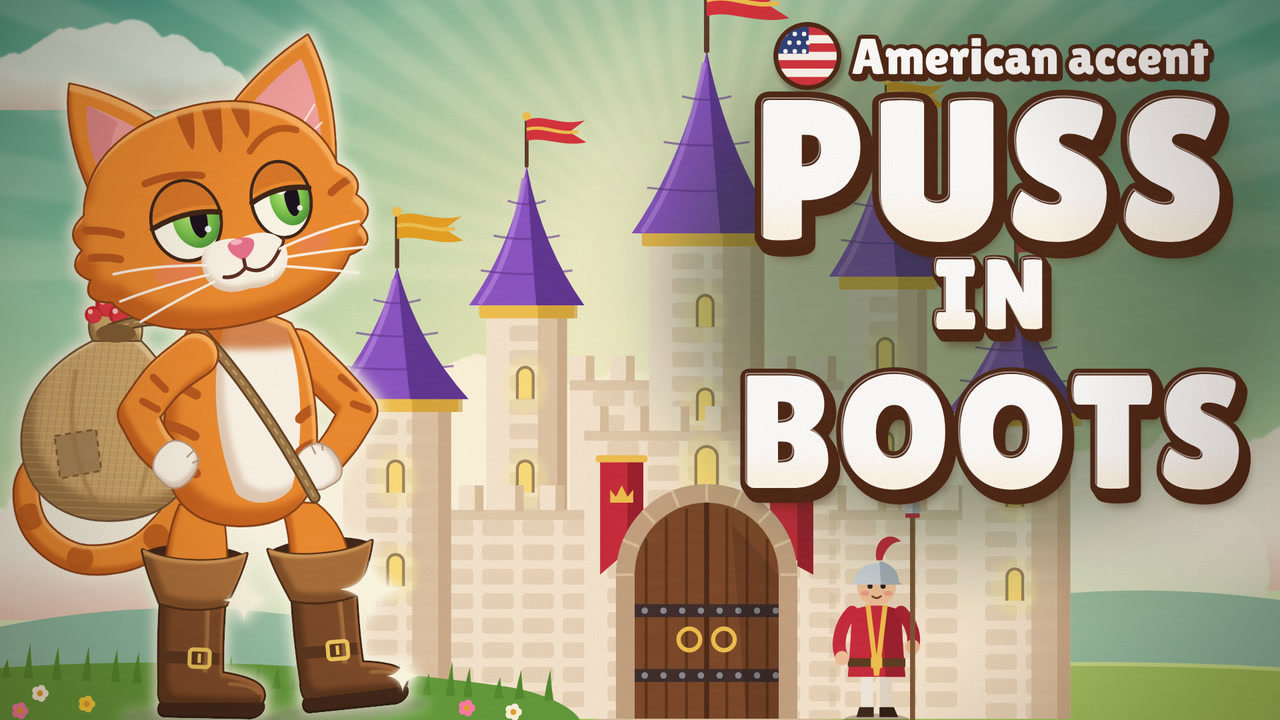
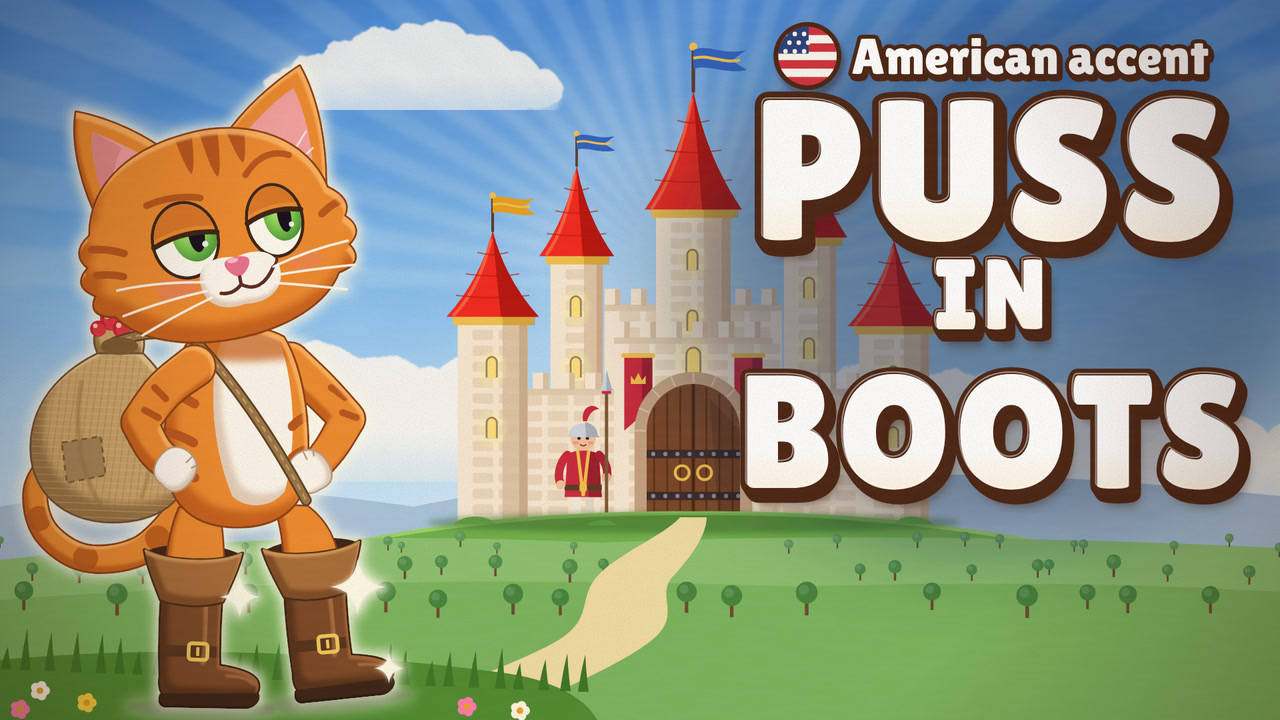
Thumbnail: blue sky, the castle far across the valley on its own hill (crisp, bright red roofs), Puss in the foreground looking at it
Claude-Session: https://claude.ai/code/session_018MiCdL3RZvqxZBKivPbUKZ

diff --git a/film/thumb/thumb.js b/film/thumb/thumb.js
@@ -125,7 +125,7 @@ function boot(x, y, rot, layer) {   // a cavalier boot: flared cuff, shaft, roun
 function faceArt() {
   const eye = (cx, cy, rx, ry, lid) => {
     const c = uid('e'); DEFS.push(`<clipPath id="${c}"><ellipse cx="${cx}" cy="${cy}" rx="${rx}" ry="${ry}"/></clipPath>`);
-    const ix = cx + rx * .34, iy = cy - ry * .02, ly = cy - ry + ry * 2 * lid;
+    const ix = cx + rx * .34, iy = cy - ry * .14, ly = cy - ry + ry * 2 * lid;
     return `<ellipse cx="${cx}" cy="${cy}" rx="${rx + 5}" ry="${ry + 5}" fill="${INK}"/>
       <g clip-path="url(#${c})"><rect x="${cx - rx}" y="${cy - ry}" width="${rx * 2}" height="${ry * 2}" fill="#fffbee"/>
       <ellipse cx="${ix}" cy="${iy}" rx="${rx * .74}" ry="${ry * .78}" fill="url(#iris)"/>
@@ -157,9 +157,9 @@ function cloud(cx, cy, w, h, seed, { top = '#fffaf1', bot = '#f1c9bb', op = 1 } 
   return `<g opacity="${op}" clip-path="url(#${cl})"><g fill="${bot}" transform="translate(0 10)" filter="url(#b6)" opacity=".6">${c}</g><g fill="url(#${id})" filter="url(#cloudEdge)">${c}</g></g>`;
 }
 function castle(x, y, k) {   // a grand fairy-tale castle: towers with pointed roofs and flags, banners, a big studded door, a guard
-  const W = '#f8e8d2', WS = '#dcc0a0', WD = '#c4a282', RF = '#8a52c6', RFS = '#5e3394', RFL = '#b07ee0', GOLD = '#f2c14e';
+  const W = '#f8e8d2', WS = '#dcc0a0', WD = '#c4a282', RF = '#f2281e', RFS = '#b8140e', RFL = '#ff6a4a', GOLD = '#f2c14e';
   const bricks = (x0, x1, y0, y1) => { let b = ''; for (let yy = y0 + 14; yy < y1 - 10; yy += 34) { const off = ((yy - y0) / 34) % 2 ? 28 : 0; for (let xx = x0 + off; xx < x1 - 30; xx += 56) b += `<rect x="${n1(xx + 4)}" y="${n1(yy)}" width="44" height="22" rx="5" fill="${WS}" opacity=".45"/>`; } return b; };
-  const flag = (px, py, sc = 1, c = '#d8303c') => `<path d="M${px} ${py} L${px} ${py - 74 * sc}" stroke="#5a3a2a" stroke-width="${6 * sc}" stroke-linecap="round"/><circle cx="${px}" cy="${py - 76 * sc}" r="${7 * sc}" fill="${GOLD}"/>` +
+  const flag = (px, py, sc = 1, c = '#2f62c0') => `<path d="M${px} ${py} L${px} ${py - 74 * sc}" stroke="#5a3a2a" stroke-width="${6 * sc}" stroke-linecap="round"/><circle cx="${px}" cy="${py - 76 * sc}" r="${7 * sc}" fill="${GOLD}"/>` +
     `<path d="M${px} ${py - 70 * sc} C${px + 24 * sc} ${py - 82 * sc} ${px + 50 * sc} ${py - 60 * sc} ${px + 90 * sc} ${py - 70 * sc} L${px + 66 * sc} ${py - 52 * sc} L${px + 92 * sc} ${py - 36 * sc} C${px + 54 * sc} ${py - 28 * sc} ${px + 26 * sc} ${py - 46 * sc} ${px} ${py - 38 * sc} Z" fill="${c}"/>` +
     `<path d="M${px} ${py - 56 * sc} C${px + 26 * sc} ${py - 64 * sc} ${px + 50 * sc} ${py - 46 * sc} ${px + 80 * sc} ${py - 53 * sc}" stroke="${GOLD}" stroke-width="${5 * sc}" fill="none"/>`;
   const win = (wx, wy, w = 26, h = 46) => `<path d="M${wx - w / 2} ${wy + h} L${wx - w / 2} ${wy + w / 2} A${w / 2} ${w / 2} 0 0 1 ${wx + w / 2} ${wy + w / 2} L${wx + w / 2} ${wy + h} Z" fill="#6a4a3a"/><path d="M${wx - w / 2 + 4} ${wy + h} L${wx - w / 2 + 4} ${wy + w / 2} A${w / 2 - 4} ${w / 2 - 4} 0 0 1 ${wx + w / 2 - 4} ${wy + w / 2} L${wx + w / 2 - 4} ${wy + h} Z" fill="#ffd86a"/><ellipse cx="${wx}" cy="${wy + h * .6}" rx="${w * 1.2}" ry="${h * .9}" fill="#fff0a0" opacity=".35" filter="url(#b8)"/>`;
@@ -200,7 +200,7 @@ function castle(x, y, k) {   // a grand fairy-tale castle: towers with pointed r
     <circle cx="0" cy="-184" r="27" fill="#f2c19a"/><circle cx="-9" cy="-184" r="3.6" fill="#2a1a20"/><circle cx="9" cy="-184" r="3.6" fill="#2a1a20"/><ellipse cx="-16" cy="-174" rx="6" ry="3.5" fill="#f08c80" opacity=".7"/><ellipse cx="16" cy="-174" rx="6" ry="3.5" fill="#f08c80" opacity=".7"/><path d="M-6 -170 Q0 -165 6 -170" stroke="#7a3a2a" stroke-width="2.6" fill="none" stroke-linecap="round"/>
     <path d="M-31 -190 C-31 -224 31 -224 31 -190 L36 -186 L-36 -186 Z" fill="#cfd6de"/><path d="M4 -219 C22 -214 31 -204 31 -190 L36 -186 L6 -186 Z" fill="#a8b0ba"/><path d="M0 -220 C-6 -250 20 -262 34 -246 C22 -246 12 -236 8 -220 Z" fill="#c8283a"/>
   </g>`;
-  return `<g transform="translate(${x} ${y}) scale(${k})"><ellipse cx="0" cy="-460" rx="900" ry="700" fill="url(#cglow)"/>
+  return `<g><g transform="translate(${x} ${y}) scale(${k})">
     ${tower(-250, 112, 560, 190, { fs: .9 })}${tower(250, 112, 600, 200, { fs: .9, fc: '#e8a020' })}
     ${crenWall(-190, 190, 470)}${tower(0, 160, 660, 250, { fs: 1.25, wins: 3 })}
     ${crenWall(-400, 400, 290)}
@@ -208,7 +208,7 @@ function castle(x, y, k) {   // a grand fairy-tale castle: towers with pointed r
     ${crenWall(-170, 170, 400)}${banner(-118)}${banner(118)}${win(0, -380, 34, 56)}
     ${door}
     <path d="M-150 0 L150 0 L176 22 L-176 22 Z" fill="${WS}"/><path d="M-176 22 L176 22 L196 40 L-196 40 Z" fill="${WD}"/>
-    ${guard(236)}</g>`;
+    ${guard(-236)}</g></g>`;
 }
 DEFS.push(`<radialGradient id="cglow"><stop offset="0" stop-color="#fff6d0" stop-opacity=".75"/><stop offset=".6" stop-color="#fff0c0" stop-opacity=".25"/><stop offset="1" stop-color="#fff0c0" stop-opacity="0"/></radialGradient>`);
 function rays(cx, cy, n, a) {   // soft sunbeams fanning out from behind the castle
@@ -217,22 +217,31 @@ function rays(cx, cy, n, a) {   // soft sunbeams fanning out from behind the cas
 }
 function scene() {
   const o = [];
-  // sky: a rich sunset (rose-orange at the top to gold), a bright glow behind the castle
-  DEFS.push(`<linearGradient id="sky" x1="0" y1="0" x2="0" y2="1080" gradientUnits="userSpaceOnUse"><stop offset="0" stop-color="#3f9a86"/><stop offset=".35" stop-color="#7cc4a0"/><stop offset=".7" stop-color="#c8e8b4"/><stop offset="1" stop-color="#eef6cc"/></linearGradient>`);
-  DEFS.push(`<radialGradient id="glow" cx="1050" cy="420" r="900" gradientUnits="userSpaceOnUse"><stop offset="0" stop-color="#fffbe6" stop-opacity=".95"/><stop offset=".4" stop-color="#ffe9b8" stop-opacity=".5"/><stop offset="1" stop-color="#ffe2a6" stop-opacity="0"/></radialGradient>`);
-  o.push(`<rect width="1920" height="1080" fill="url(#sky)"/>${rays(1050, 420, 26, .16)}<rect width="1920" height="1080" fill="url(#glow)"/><rect width="1920" height="1080" filter="url(#mottle)" opacity=".45"/>`);
-  // clouds: a bright bank behind Puss (so the orange cat pops), smaller ones in the sky
-  o.push(cloud(1780, 860, 560, 170, 5, { op: .9 }), cloud(260, 900, 700, 200, 9, { op: .9 }), cloud(160, 150, 360, 100, 3, { op: .75 }));
-  o.push(cloud(1060, 900, 1500, 300, 4, { bot: '#cfe6c0' }));
-  // far lavender hills, the castle on its green hill, the road from Puss to the castle, the front hill
-  o.push(`<path d="M0 940 C200 900 420 900 600 960 C760 900 920 900 1080 930 C1260 880 1420 860 1600 890 C1740 880 1840 890 1920 900 L1920 1080 L0 1080 Z" fill="#8cbfa6"/>`);
-  o.push(`<path d="M0 1030 C300 1000 700 990 1250 1000 C1560 992 1800 996 1920 1004 L1920 1080 L0 1080 Z" fill="#9cc458"/><path d="M0 1030 C300 1000 700 990 1250 1000 C1560 992 1800 996 1920 1004" fill="none" stroke="#d6ec8e" stroke-width="6" opacity=".8"/>`);
-  o.push(castle(1060, 1078, 1.08));
-  
-  o.push(`<path d="M0 1002 C240 984 520 996 760 1030 C820 1040 860 1062 870 1080 L0 1080 Z" fill="#5f9a38"/>`);
-  let tufts = ''; const r = R0(41); for (let x = 8; x < 860; x += 26 + r() * 20) { const yb = 1006 + (x / 860) * 36, h = 18 + r() * 26; tufts += `<path d="M${n1(x - 6)} ${n1(yb + 10)} Q${n1(x - 2)} ${n1(yb - h * .5)} ${n1(x + 4)} ${n1(yb - h)} Q${n1(x + 4)} ${n1(yb - h * .4)} ${n1(x + 8)} ${n1(yb + 10)} Z"/>`; }
-  o.push(`<g fill="#4f8a2c">${tufts}</g>`);
-  let fl = ''; for (const [x, y, c] of [[60, 1040, '#fff6e0'], [130, 1056, '#ffd23a'], [700, 1062, '#ff7aa8'], [770, 1068, '#fff6e0'], [30, 1066, '#ff7aa8']]) fl += `<g fill="${c}">${[0, 1, 2, 3, 4].map(i => `<circle cx="${n1(x + Math.cos(i * 1.2566) * 7)}" cy="${n1(y + Math.sin(i * 1.2566) * 7)}" r="6"/>`).join('')}</g><circle cx="${x}" cy="${y}" r="4.5" fill="#e8a22a"/>`;
+  // sky: a clear blue, paler toward the horizon, a soft light behind the castle
+  DEFS.push(`<linearGradient id="sky" x1="0" y1="0" x2="0" y2="1080" gradientUnits="userSpaceOnUse"><stop offset="0" stop-color="#2f78d0"/><stop offset=".38" stop-color="#6fb2ec"/><stop offset=".66" stop-color="#bfe0f6"/><stop offset="1" stop-color="#eaf5f6"/></linearGradient>`);
+  DEFS.push(`<radialGradient id="glow" cx="1040" cy="430" r="820" gradientUnits="userSpaceOnUse"><stop offset="0" stop-color="#fffdf0" stop-opacity=".45"/><stop offset=".45" stop-color="#f4fbff" stop-opacity=".15"/><stop offset="1" stop-color="#f4fbff" stop-opacity="0"/></radialGradient>`);
+  o.push(`<rect width="1920" height="1080" fill="url(#sky)"/>${rays(1040, 430, 26, .12)}<rect width="1920" height="1080" fill="url(#glow)"/><rect width="1920" height="1080" filter="url(#mottle)" opacity=".35"/>`);
+  // clouds high in the sky and a soft bank along the horizon
+  o.push(cloud(620, 150, 380, 100, 3, { bot: '#d4e4f2', op: .85 }), cloud(1840, 760, 360, 100, 5, { bot: '#d4e4f2', op: .9 }), cloud(560, 700, 700, 150, 9, { bot: '#d8e8f2', op: .9 }), cloud(1500, 740, 900, 160, 4, { bot: '#d8e8f2', op: .9 }));
+  // far blue hills, the castle on its distant hill
+  o.push(`<path d="M0 760 C220 720 420 730 620 760 C820 720 980 700 1160 726 C1380 700 1600 712 1920 744 L1920 1080 L0 1080 Z" fill="#a9c4dc"/>`);
+  o.push(castle(1040, 786, .7));
+  o.push(`<path d="M420 840 C600 790 820 768 1040 770 C1260 768 1480 790 1680 840 L1680 1080 L420 1080 Z" fill="#6fb04a"/><path d="M420 840 C600 790 820 768 1040 770 C1260 768 1480 790 1680 840" fill="none" stroke="#9ad46a" stroke-width="6"/>`);
+  o.push(`<ellipse cx="1040" cy="784" rx="400" ry="16" fill="#2e5a20" opacity=".45" filter="url(#b8)"/>`);
+  o.push(`<path d="M680 786 C700 770 730 772 744 786 Z M1340 786 C1352 772 1380 770 1400 786 Z M880 788 C896 776 916 778 926 788 Z" fill="#5a9a3c"/>`);
+  // the valley between: fields, small trees and the road winding off to the castle gate
+  o.push(`<path d="M0 840 C300 806 600 800 900 814 C1200 800 1600 806 1920 822 L1920 1080 L0 1080 Z" fill="#8cc070"/>`);
+  o.push(`<path d="M0 900 C400 870 800 866 1200 880 C1500 870 1760 878 1920 888 L1920 1080 L0 1080 Z" fill="#7ab45c"/>`);
+  let trees = ''; const tr = R0(77);
+  const tree = (x, y, h, c) => `<rect x="${n1(x - h * .05)}" y="${n1(y - h * .4)}" width="${n1(h * .1)}" height="${n1(h * .4)}" fill="#6a4a30"/><circle cx="${n1(x)}" cy="${n1(y - h * .62)}" r="${n1(h * .3)}" fill="${c}"/><circle cx="${n1(x - h * .08)}" cy="${n1(y - h * .7)}" r="${n1(h * .14)}" fill="#ffffff" opacity=".12"/>`;
+  for (const [y0, hh, c, n] of [[820, 22, '#5f9a5a', 26], [862, 32, '#4f8e48', 22], [912, 46, '#45843c', 16]]) for (let i = 0; i < n; i++) { const x = (i + tr()) * 1920 / n; if (Math.abs(x - 1040) < 120 && y0 < 900) continue; trees += tree(x, y0 + tr() * 16, hh * (.8 + tr() * .4), c); }
+  o.push(trees);
+  o.push(`<path d="M1020 776 C1000 800 930 830 900 860 C860 900 900 930 820 970 C740 1010 640 1040 560 1080 L760 1080 C820 1040 920 1004 970 966 C1030 924 980 896 1010 864 C1040 832 1060 800 1060 776 Z" fill="#f0dca4"/>`);
+  // the near hill Puss stands on
+  o.push(`<path d="M0 990 C220 968 520 976 760 1010 C840 1022 880 1052 896 1080 L0 1080 Z" fill="#4e8a2e"/>`);
+  let tufts = ''; const r = R0(41); for (let x = 8; x < 880; x += 22 + r() * 18) { const yb = 992 + (x / 880) * 34, h = 22 + r() * 30; tufts += `<path d="M${n1(x - 7)} ${n1(yb + 12)} Q${n1(x - 2)} ${n1(yb - h * .5)} ${n1(x + 4)} ${n1(yb - h)} Q${n1(x + 5)} ${n1(yb - h * .4)} ${n1(x + 9)} ${n1(yb + 12)} Z"/>`; }
+  o.push(`<g fill="#3c7424">${tufts}</g>`);
+  let fl = ''; for (const [x, y, c] of [[60, 1036, '#fff6e0'], [130, 1054, '#ffd23a'], [700, 1060, '#ff7aa8'], [780, 1066, '#fff6e0'], [30, 1064, '#ff7aa8']]) fl += `<g fill="${c}">${[0, 1, 2, 3, 4].map(i => `<circle cx="${n1(x + Math.cos(i * 1.2566) * 8)}" cy="${n1(y + Math.sin(i * 1.2566) * 8)}" r="7"/>`).join('')}</g><circle cx="${x}" cy="${y}" r="5" fill="#e8a22a"/>`;
   o.push(fl);
   return o.join('');
 }
@@ -257,15 +266,16 @@ function title() {
   const tx = x0 + fr * 2 + gap, lat = `x="${n1(tx)}" y="${fy + 27}" font-family='${F}' font-size="${ls}"`;
   const label = `<g><circle cx="${n1(fx + 4)}" cy="${fy + 8}" r="${fr + 8}" fill="#3a1a0c" opacity=".35" filter="url(#b6)"/><circle cx="${n1(fx)}" cy="${fy}" r="${fr + 7}" fill="#4a2414"/><g clip-path="url(#flagc)">${flag}<rect x="${n1(fx - fr)}" y="${fy - fr}" width="${n1(fr * 1.04)}" height="${n1(fr * .92)}" fill="#2a3f7a"/>${stars}</g>` +
     `<text ${lat} fill="#3a1a0c" opacity=".4" filter="url(#b6)" transform="translate(5 8)">${lab}</text><text ${lat} fill="#4a2414" stroke="#4a2414" stroke-width="12" stroke-linejoin="round" transform="translate(3 5)">${lab}</text><text ${lat} fill="#4a2414" stroke="#4a2414" stroke-width="12" stroke-linejoin="round">${lab}</text><text ${lat} fill="#fff">${lab}</text></g>`;
-  return `<ellipse cx="${CX}" cy="420" rx="480" ry="400" fill="#16301f" opacity=".46" filter="url(#soft)"/>` + label + line('PUSS', 300, 360, 10) + line('IN', 150, 494, 8) + line('BOOTS', 300, 732, 10);
+  return `<ellipse cx="${CX}" cy="420" rx="480" ry="400" fill="#0e1f3a" opacity=".42" filter="url(#soft)"/>` + label + line('PUSS', 300, 360, 10) + line('IN', 150, 494, 8) + line('BOOTS', 300, 732, 10);
 }
 
 function build() {
   const sceneSvg = scene(), pussSvg = puss(), titleSvg = title();
   const filters = [2, 3, 4, 5, 6, 7, 8, 9, 10, 12, 14].map(b => `<filter id="b${b}" x="-20%" y="-20%" width="140%" height="140%"><feGaussianBlur stdDeviation="${b * .5}"/></filter>`).join('') +
+    `<filter id="haze" x="0" y="0" width="100%" height="100%" filterUnits="userSpaceOnUse"><feColorMatrix values=".9 0 0 0 .06  0 .9 0 0 .08  0 0 .9 0 .11  0 0 0 1 0"/></filter>` +
     `<filter id="soft" x="-50%" y="-50%" width="200%" height="200%"><feGaussianBlur stdDeviation="70"/></filter>` +
     `<filter id="cloudEdge" x="-10%" y="-10%" width="120%" height="120%"><feTurbulence type="fractalNoise" baseFrequency=".035" numOctaves="3" seed="4"/><feDisplacementMap in="SourceGraphic" scale="14"/><feGaussianBlur stdDeviation="1.2"/></filter>` +
-    `<filter id="mottle" x="0" y="0" width="100%" height="100%"><feTurbulence type="fractalNoise" baseFrequency=".004 .006" numOctaves="3" seed="8"/><feColorMatrix values="0 0 0 0 .9  0 0 0 0 1  0 0 0 0 .85  0 0 0 .9 -.32"/></filter>` +
+    `<filter id="mottle" x="0" y="0" width="100%" height="100%"><feTurbulence type="fractalNoise" baseFrequency=".004 .006" numOctaves="3" seed="8"/><feColorMatrix values="0 0 0 0 .9  0 0 0 0 .96  0 0 0 0 1  0 0 0 .9 -.32"/></filter>` +
     `<filter id="grain" x="0" y="0" width="100%" height="100%"><feTurbulence type="fractalNoise" baseFrequency=".85" numOctaves="2" seed="3"/><feColorMatrix values="0 0 0 0 .2  0 0 0 0 .12  0 0 0 0 .05  0 0 0 .55 -.16"/></filter>` +
     `<filter id="brush" x="0" y="0" width="100%" height="100%"><feTurbulence type="fractalNoise" baseFrequency=".02 .09" numOctaves="2" seed="12"/><feColorMatrix values="0 0 0 0 1  0 0 0 0 .95  0 0 0 0 .85  0 0 0 .7 -.3"/></filter>` +
     `<filter id="halo" x="-10%" y="-10%" width="120%" height="120%"><feMorphology in="SourceAlpha" operator="dilate" radius="5" result="d"/><feGaussianBlur in="d" stdDeviation="9" result="b"/><feFlood flood-color="#fffbe8" flood-opacity=".9"/><feComposite in2="b" operator="in" result="h"/><feMerge><feMergeNode in="h"/><feMergeNode in="SourceGraphic"/></feMerge></filter>` +
@@ -274,7 +284,7 @@ function build() {
     `<radialGradient id="vig" cx="960" cy="540" r="1150" gradientUnits="userSpaceOnUse"><stop offset=".55" stop-color="#2a1208" stop-opacity="0"/><stop offset="1" stop-color="#2a1208" stop-opacity=".32"/></radialGradient>`;
   return `<svg xmlns="http://www.w3.org/2000/svg" viewBox="0 0 1920 1080" width="1920" height="1080"><defs>${filters}${DEFS.join('')}</defs>
     ${sceneSvg}
-    <g transform="translate(-6 54) scale(1)" filter="url(#halo)">${pussSvg}</g>
+    <g transform="translate(10 100) scale(.94)" filter="url(#halo)">${pussSvg}</g>
     ${titleSvg}
     <rect width="1920" height="1080" filter="url(#brush)" opacity=".18" style="mix-blend-mode:soft-light"/>
     <rect width="1920" height="1080" filter="url(#grain)" opacity=".5"/>
